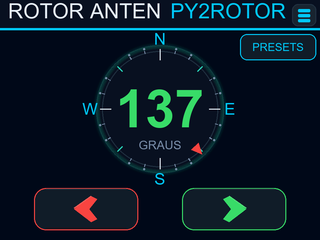
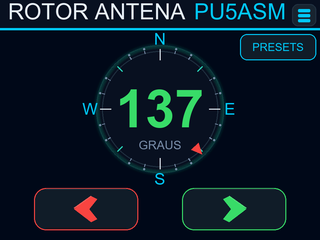
Refresh web presets and footer, standardize PU5ASM identity

Changed region(s): [[0.0312, 0.0, 0.9062, 0.0875]]

diff --git a/flasher/index.html b/flasher/index.html
@@ -119,6 +119,7 @@
 
   <footer>
     <a href="https://github.com/ArturAugustoMs/rotor-cyd">C&oacute;digo-fonte e documenta&ccedil;&atilde;o</a>
+    &nbsp;·&nbsp; PU5ASM &middot; Artur MS
     &nbsp;·&nbsp; Atualizado automaticamente a cada vers&atilde;o
   </footer>
 </main>

diff --git a/include/web_pages.h b/include/web_pages.h
@@ -6,6 +6,7 @@ namespace web::pages {
 static const char kCss[] = R"CSS(
 :root{--bg:#08111f;--card:#0f1b2e;--card2:#13223a;--line:#22365a;--tx:#e9eef7;--dim:#8d9dba;--ac:#3ddc84;--pri:#2f9bff;--dg:#ff5a5a;--r:12px}
 *{box-sizing:border-box}
+[hidden]{display:none!important}
 html{background:var(--bg)}
 body{background:linear-gradient(180deg,#0c1a31 0,var(--bg) 320px) no-repeat,var(--bg);color:var(--tx);font:16px/1.4 system-ui,-apple-system,"Segoe UI",Roboto,sans-serif;margin:0;-webkit-text-size-adjust:100%}
 .wrap{max-width:560px;margin:0 auto;padding:12px 16px 90px}
@@ -40,14 +41,29 @@ canvas{width:100%;max-width:520px;aspect-ratio:1;display:block;margin:0 auto;bor
 .arrows button{width:140px;max-width:45%;font-size:1.7rem;line-height:3.4rem;touch-action:none;user-select:none;-webkit-user-select:none}
 .arrows button.on{background:var(--ac);color:#06121f}
 .arrows button.cw.on{background:#ffb020}
-.presets h3{margin:14px 0 8px;padding-top:12px;border-top:1px solid var(--line)}
-.plist{display:flex;flex-direction:column;gap:6px;margin:0 0 10px}
-.prow{display:flex;align-items:center;gap:6px;background:var(--card2);border:1px solid var(--line);border-radius:10px;padding:4px}
-.prow.sel{border-color:var(--ac)}
-.prow button{flex:none;width:auto;line-height:2rem;font-size:.85rem;padding:0 10px;margin:0}
-.prow button.go{flex:1;background:transparent;color:var(--tx);text-align:left;display:flex;justify-content:space-between;gap:8px;box-shadow:none}
-.prow button.go span{overflow:hidden;text-overflow:ellipsis;white-space:nowrap}
-.prow button.go b{color:var(--ac);white-space:nowrap}
+.presets h2{margin:0}
+.phead{display:flex;align-items:center;justify-content:space-between;gap:10px;margin-bottom:10px}
+.pcount{flex:none;padding:3px 10px;border-radius:20px;background:var(--card2);border:1px solid var(--line);color:var(--ac);font-size:.75rem;font-weight:700}
+.plist{display:flex;flex-direction:column;gap:8px;margin:0}
+.pempty{padding:14px 12px;text-align:center;color:var(--dim);font-size:.85rem;background:var(--card2);border:1px dashed var(--line);border-radius:10px}
+.prow{display:grid;grid-template-columns:minmax(0,1fr) 36px 36px;gap:6px;align-items:center;background:var(--card2);border:1px solid var(--line);border-radius:10px;padding:4px}
+.prow.sel{border-color:var(--ac);box-shadow:0 0 0 1px var(--ac)}
+.prow button{margin:0;width:auto;line-height:2.15rem;font-size:.9rem;padding:0}
+.prow .go{display:flex;align-items:center;justify-content:space-between;gap:8px;min-width:0;padding:0 10px;background:transparent;color:var(--tx);box-shadow:none;text-align:left}
+.prow .go:hover{background:rgba(61,220,132,.08)}
+.prow .go .nm{min-width:0;overflow:hidden;text-overflow:ellipsis;white-space:nowrap;font-weight:600}
+.prow .go .ang{flex:none;padding:2px 8px;border-radius:20px;background:rgba(61,220,132,.12);color:var(--ac);font-size:.78rem;font-weight:700}
+.prow .ico{width:36px;height:36px;display:flex;align-items:center;justify-content:center;border-radius:9px;line-height:1;padding:0}
+.prow .ico svg{display:block;pointer-events:none}
+.prow .ico.del{background:transparent;box-shadow:inset 0 0 0 1px var(--line);color:var(--dim)}
+.prow .ico.del:hover{color:var(--dg);box-shadow:inset 0 0 0 1px var(--dg)}
+.pform{display:grid;grid-template-columns:minmax(0,1fr) 110px;gap:8px;margin-top:12px}
+.pform label{margin:0;align-self:center}
+.pform input{margin:0;min-width:0}
+.pactions{display:flex;gap:8px;margin-top:10px}
+.pactions button{flex:1}
+.ptip{margin:10px 0 0}
+.ptip.on{color:var(--ac);font-weight:600}
 .nets{display:flex;flex-direction:column;gap:8px;margin:10px 0 0}
 button.net{box-sizing:border-box;display:flex;align-items:center;gap:12px;width:100%;min-height:48px;margin:0;padding:8px 12px;background:var(--card2);box-shadow:inset 0 0 0 1px var(--line);border-radius:10px;color:var(--tx);text-align:left;font:600 .9rem/1.3 system-ui,sans-serif}
 button.net:hover{box-shadow:inset 0 0 0 1px var(--pri)}
@@ -85,26 +101,41 @@ details.about[open] summary:before{content:"\2212"}
 .wrap>form{margin:0 0 10px}
 form[action='/wifi'] button,form[action='/info'] button,form[action='/update'] button,form[action='/restart'] button,form[action='/exit'] button,form[action='/erase'] button{background:transparent;box-shadow:inset 0 0 0 1px var(--line);color:var(--tx)}
 a[data-ssid]{display:block;color:var(--tx);padding:12px;background:var(--card);border:1px solid var(--line);border-radius:10px;margin:0 0 6px;text-decoration:none}
-.ft{margin:26px 0 4px;padding:18px 12px 10px;border-top:1px solid var(--line);text-align:center;color:var(--dim);font-size:.78rem;line-height:1.6}
-.ft .ft-b{display:flex;align-items:center;justify-content:center;gap:8px;color:var(--tx);font-weight:700;letter-spacing:.14em;font-size:.82rem}
-.ft .ft-b:before{content:"";width:11px;height:11px;flex:none;border-radius:50%;border:2px solid var(--ac);background:conic-gradient(from 30deg,rgba(61,220,132,.9),transparent 30%)}
-.ft .ft-v{color:var(--ac);letter-spacing:0;font-weight:700}
-.ft .ft-d{display:flex;justify-content:center;gap:6px;flex-wrap:wrap;margin-top:9px}
-.ft .ft-d span{background:var(--card);border:1px solid var(--line);border-radius:20px;padding:3px 10px}
-.ft .ft-d b{color:var(--tx);font-weight:600}
+.ft{margin:28px 0 0;padding:18px 0 6px;border-top:1px solid var(--line);color:var(--dim);font-size:.8rem;line-height:1.5}
+.ft-title{display:flex;align-items:center;gap:8px;color:var(--tx);font-weight:800;letter-spacing:.12em;font-size:.8rem}
+.ft-title:before{content:"";width:11px;height:11px;flex:none;border-radius:50%;border:2px solid var(--ac);background:conic-gradient(from 30deg,rgba(61,220,132,.9),transparent 30%)}
+.ft-v{color:var(--ac);letter-spacing:0;font-weight:700}
+.ft-grid{display:grid;grid-template-columns:repeat(auto-fit,minmax(130px,1fr));gap:8px;margin:12px 0 0}
+.ft-grid>div{min-width:0;background:var(--card);border:1px solid var(--line);border-radius:10px;padding:8px 10px}
+.ft-grid dt{color:var(--dim);font-size:.68rem;text-transform:uppercase;letter-spacing:.06em}
+.ft-grid dd{margin:2px 0 0;color:var(--tx);font-weight:600;overflow:hidden;text-overflow:ellipsis;white-space:nowrap}
+.ft-sign{margin-top:10px;text-align:center;color:var(--dim)}
 )CSS";
 
 static const char kHead[] = R"HTML(<link rel="stylesheet" href="/pr.css"><meta name="theme-color" content="#08111f"><script>
 document.addEventListener('DOMContentLoaded',function(){var w=document.querySelector('.wrap');if(!w||document.querySelector('.hd'))return;
 var p=location.pathname,t=p.indexOf('/settings')==0?1:p.indexOf('/rede')==0?2:0;
-var h=document.createElement('div');h.innerHTML="<header class='hd'><a class='brand' href='/'><span id='hname'>ROTOR ANTENA</span></a><span class='pill' id='hcall'>&hellip;</span></header><nav class='tabs'><a href='/'>Inicio</a><a href='/settings'>Configurar</a><a href='/rede'>Rede</a></nav>";
+var h=document.createElement('div');h.innerHTML="<header class='hd'><a class='brand' href='/'><span id='hname'>ROTOR ANTENA</span></a><span class='pill' id='hcall'>PU5ASM</span></header><nav class='tabs'><a href='/'>Inicio</a><a href='/settings'>Configurar</a><a href='/rede'>Rede</a></nav>";
 w.insertBefore(h,w.firstChild);h.querySelectorAll('nav a')[t].className='on';
 var d=new Date(),f=document.createElement('footer');f.className='ft';
-f.innerHTML="<div class='ft-b'>ROTOR CYD <span class='ft-v' id='ftVer'>&hellip;</span></div><div class='ft-d'><span>Indicativo <b id='ftCall'>&hellip;</b></span><span id='ftName'>&hellip;</span><span id='ftDate'></span><span id='ftYear'></span></div>";
+f.innerHTML="<div class='ft-title'>ROTOR CYD <span class='ft-v' id='ftVer'></span></div>"+
+ "<dl class='ft-grid'>"+
+ "<div><dt>Indicativo</dt><dd id='ftCall'>PU5ASM</dd></div>"+
+ "<div><dt>Propriet&aacute;rio</dt><dd id='ftName'>Artur MS</dd></div>"+
+ "<div><dt>Atualizado em</dt><dd id='ftDate'></dd></div>"+
+ "</dl>"+
+ "<div class='ft-sign'>&copy; <span id='ftYear'></span> PU5ASM &middot; Artur MS</div>";
 w.appendChild(f);
-document.getElementById('ftDate').textContent=d.toLocaleDateString('pt-BR');
-document.getElementById('ftYear').textContent=d.getFullYear();
-fetch('/api/state').then(function(r){return r.json()}).then(function(j){document.getElementById('hname').textContent=j.antenna;document.getElementById('hcall').textContent=j.callsign;if(j.version)document.getElementById('ftVer').textContent='v'+j.version;if(j.owner_callsign)document.getElementById('ftCall').textContent=j.owner_callsign;if(j.owner_name)document.getElementById('ftName').textContent=j.owner_name}).catch(function(){})});
+function ftSet(id,value){var e=document.getElementById(id);if(e&&value)e.textContent=value}
+ftSet('ftDate',d.toLocaleDateString('pt-BR'));
+ftSet('ftYear',d.getFullYear());
+fetch('/api/state').then(function(r){return r.json()}).then(function(j){
+ ftSet('hname',j.antenna);
+ ftSet('hcall',j.callsign);
+ ftSet('ftCall',j.owner_callsign||j.callsign);
+ ftSet('ftName',j.owner_name);
+ ftSet('ftVer',j.version?('v'+j.version):'');
+}).catch(function(){})});
 </script>)HTML";
 
 static const char kMenu[] = R"HTML(<div class="tiles">
@@ -129,11 +160,11 @@ static const char kSettings[] = R"HTML(
 <label for="antenna">Nome da antena</label>
 <input id="antenna" maxlength="24" placeholder="Ex.: ANTENA PRINCIPAL" autocomplete="off">
 <label for="callsign">Indicativo</label>
-<input id="callsign" maxlength="12" placeholder="Ex.: PY2ABC" autocomplete="off" style="text-transform:uppercase">
+<input id="callsign" maxlength="12" placeholder="Ex.: PU5ASM" autocomplete="off" style="text-transform:uppercase">
 <label for="ownerCall">Indicativo (Sobre)</label>
-<input id="ownerCall" maxlength="12" placeholder="Ex.: PY0XXX" autocomplete="off" style="text-transform:uppercase">
+<input id="ownerCall" maxlength="12" placeholder="Ex.: PU5ASM" autocomplete="off" style="text-transform:uppercase">
 <label for="ownerName">Nome (Sobre)</label>
-<input id="ownerName" maxlength="24" placeholder="Ex.: Seu Nome" autocomplete="off">
+<input id="ownerName" maxlength="24" placeholder="Ex.: Artur MS" autocomplete="off">
 <button id="save">Salvar</button>
 </div>
 <div class="card"><h2>Apar&ecirc;ncia do CYD</h2>
@@ -247,21 +278,30 @@ static const char kControl[] = R"HTML(
 <button id="cw" class="cw" aria-label="Girar no sentido hor&aacute;rio">&#9654;</button>
 </div>
 <p class="hint" style="margin:10px 0 0">Segure a seta para girar. O rel&eacute; desliga ao soltar (ou ap&oacute;s 1 s sem comando).</p>
-<div class="presets">
-<h3>Presets</h3>
-<div id="presetList" class="plist"></div>
-<p class="hint" id="targetStatus" style="margin:0 0 10px">Rota&ccedil;&atilde;o livre</p>
-<div class="row">
-<input id="presetName" maxlength="20" placeholder="Nome (ex.: Europa)">
-<input id="presetAngle" type="number" min="0" max="360" step="1" inputmode="numeric" placeholder="&Acirc;ngulo 0-360">
 </div>
-<div class="row">
-<button id="presetSave" class="sm">Adicionar</button>
-<button id="presetCancel" class="G sm" style="display:none">Cancelar</button>
+<section class="card presets" aria-labelledby="presetsTitle">
+<div class="phead">
+<h2 id="presetsTitle">Presets</h2>
+<span class="pcount" id="presetCount">0/10</span>
 </div>
-<p class="hint" style="margin:10px 0 0">O preset gira at&eacute; o &acirc;ngulo e para. Nunca cruza os fins de curso (0&deg;/360&deg;). Qualquer seta cancela o alvo.</p>
+<div id="presetList" class="plist" aria-live="polite"></div>
+<p class="hint ptip" id="targetStatus">Rota&ccedil;&atilde;o livre</p>
+<form class="pform" autocomplete="off">
+<div>
+<label for="presetName">Nome</label>
+<input id="presetName" maxlength="20" placeholder="Ex.: Europa">
 </div>
+<div>
+<label for="presetAngle">&Acirc;ngulo</label>
+<input id="presetAngle" type="number" min="0" max="360" step="1" inputmode="numeric" placeholder="0-360">
 </div>
+</form>
+<div class="pactions">
+<button id="presetSave" type="button">Adicionar</button>
+<button id="presetCancel" class="G" type="button" hidden>Cancelar</button>
+</div>
+<p class="hint ptip">Toque no nome para girar at&eacute; o &acirc;ngulo e parar. Limites f&iacute;sicos: 0&deg; e 360&deg;. Qualquer seta cancela o alvo.</p>
+</section>
 <script>
 (function(){
 var cv=$('compass'),c=cv.getContext('2d'),az=0,name='',call='';
@@ -280,7 +320,7 @@ c.font='600 24px system-ui,sans-serif';c.fillStyle='#8d9dba';c.fillText('GRAUS',
 c.font='600 26px system-ui,sans-serif';c.fillStyle='#e9eef7';c.fillText(name,260,350);
 c.font='600 22px system-ui,sans-serif';c.fillStyle='#3ddc84';c.fillText(call,260,385);
 }
-function poll(){api('GET','/api/state').then(function(j){az=j.azimuth;name=j.antenna;call=j.callsign;var ts=$('targetStatus');if(ts)ts.textContent=j.target_active?('Indo para '+j.target+'\u00b0'):'Rota\u00e7\u00e3o livre';draw()}).catch(function(){})}
+function poll(){api('GET','/api/state').then(function(j){az=j.azimuth;name=j.antenna;call=j.callsign;setTargetStatus(j);draw()}).catch(function(){})}
 setInterval(poll,200);poll();
 function cmd(d){return api('POST','/api/rotate',{dir:d}).catch(function(){})}
 function bind(id,d){
@@ -298,34 +338,63 @@ function stopAll(){['ccw','cw'].forEach(function(id){var b=$(id);if(b&&b._stop)b
 window.addEventListener('blur',stopAll);
 document.addEventListener('visibilitychange',function(){if(document.hidden)stopAll()});
 
-var presets=[],editIndex=-1;
+var presets=[],editIndex=-1,maxPresets=10;
+function byId(id){return document.getElementById(id)}
+function setHidden(id,value){byId(id).hidden=!!value}
+function setTargetStatus(j){
+ var ts=byId('targetStatus');
+ if(!ts)return;
+ var active=!!(j&&j.target_active);
+ ts.textContent=active?('Indo para '+j.target+'\u00b0'):'Rota\u00e7\u00e3o livre';
+ ts.classList.toggle('on',active);
+}
+var ICON_EDIT='<svg width="16" height="16" viewBox="0 0 24 24" fill="none" stroke="currentColor" stroke-width="2" stroke-linecap="round" stroke-linejoin="round"><path d="M12 20h9"/><path d="M16.5 3.5a2.1 2.1 0 0 1 3 3L7 19l-4 1 1-4z"/></svg>';
+var ICON_DEL='<svg width="16" height="16" viewBox="0 0 24 24" fill="none" stroke="currentColor" stroke-width="2" stroke-linecap="round" stroke-linejoin="round"><path d="M3 6h18"/><path d="M8 6V4h8v2"/><path d="M6 6l1 14h10l1-14"/></svg>';
+function listMessage(text){
+ var box=byId('presetList');box.innerHTML='';
+ var d=document.createElement('div');d.className='pempty';d.textContent=text;box.appendChild(d);
+}
 function renderPresets(){
- var box=$('presetList');box.innerHTML='';
- if(!presets.length){var empty=document.createElement('p');empty.className='hint';empty.textContent='Nenhum preset cadastrado.';box.appendChild(empty);return}
+ var box=byId('presetList');box.innerHTML='';
+ byId('presetCount').textContent=presets.length+'/'+maxPresets;
+ byId('presetSave').disabled=presets.length>=maxPresets&&editIndex<0;
+ if(!presets.length){listMessage('Nenhum preset cadastrado. Use os campos abaixo para criar o primeiro.');return}
  presets.forEach(function(p,i){
   var row=document.createElement('div');row.className='prow'+(editIndex===i?' sel':'');
-  var go=document.createElement('button');go.className='go';
-  var nm=document.createElement('span');nm.textContent=p.name;
-  var ag=document.createElement('b');ag.textContent=p.angle+'\u00b0';
-  go.appendChild(nm);go.appendChild(ag);
+  var go=document.createElement('button');go.type='button';go.className='go';go.title='Girar para '+p.name;
+  var nm=document.createElement('span');nm.className='nm';nm.textContent=p.name;
+  var ang=document.createElement('span');ang.className='ang';ang.textContent=p.angle+'\u00b0';
+  go.appendChild(nm);go.appendChild(ang);
   go.onclick=function(){stopAll();api('POST','/api/preset',{index:i}).then(function(){toast('Indo para '+p.name+' '+p.angle+'\u00b0')}).catch(function(e){toast('Erro: '+e.message)})};
-  var ed=document.createElement('button');ed.className='G sm';ed.textContent='\u270e';
-  ed.onclick=function(){editIndex=i;$('presetName').value=p.name;$('presetAngle').value=p.angle;$('presetSave').textContent='Salvar altera\u00e7\u00e3o';$('presetCancel').style.display='';renderPresets()};
-  var del=document.createElement('button');del.className='D sm';del.textContent='\u00d7';
-  del.onclick=function(){api('POST','/api/presets',{op:'remove',index:i}).then(function(){if(editIndex===i)resetPresetForm();loadPresets();toast('Preset removido')}).catch(function(e){toast('Erro: '+e.message)})};
+  var ed=document.createElement('button');ed.type='button';ed.className='G ico';ed.innerHTML=ICON_EDIT;ed.title='Editar '+p.name;ed.setAttribute('aria-label','Editar '+p.name);
+  ed.onclick=function(){editIndex=i;byId('presetName').value=p.name;byId('presetAngle').value=p.angle;byId('presetSave').textContent='Salvar altera\u00e7\u00e3o';setHidden('presetCancel',false);renderPresets();byId('presetName').focus()};
+  var del=document.createElement('button');del.type='button';del.className='ico del';del.innerHTML=ICON_DEL;del.title='Remover '+p.name;del.setAttribute('aria-label','Remover '+p.name);
+  del.onclick=function(){api('POST','/api/presets',{op:'remove',index:i}).then(function(){resetPresetForm();loadPresets();toast('Preset removido')}).catch(function(e){toast('Erro: '+e.message)})};
   row.appendChild(go);row.appendChild(ed);row.appendChild(del);box.appendChild(row);
  });
 }
-function resetPresetForm(){editIndex=-1;$('presetName').value='';$('presetAngle').value='';$('presetSave').textContent='Adicionar';$('presetCancel').style.display='none';renderPresets()}
-function loadPresets(){api('GET','/api/presets').then(function(j){presets=j.presets||[];renderPresets()}).catch(function(){})}
-$('presetSave').onclick=function(){
- var name=$('presetName').value.trim(),angle=parseInt($('presetAngle').value,10);
+function resetPresetForm(){
+ editIndex=-1;
+ byId('presetName').value='';byId('presetAngle').value='';
+ byId('presetSave').textContent='Adicionar';setHidden('presetCancel',true);
+ renderPresets();
+}
+function loadPresets(){
+ return api('GET','/api/presets').then(function(j){
+  presets=j.presets||[];maxPresets=j.max||10;
+  if(editIndex>=presets.length)resetPresetForm();else renderPresets();
+ }).catch(function(e){listMessage('Erro ao carregar presets: '+e.message)});
+}
+byId('presetSave').onclick=function(){
+ if(this.disabled)return;
+ var name=byId('presetName').value.trim(),raw=byId('presetAngle').value.trim(),angle=Number(raw);
  if(!name){toast('Informe o nome do preset');return}
- if(isNaN(angle)||angle<0||angle>360){toast('O \u00e2ngulo deve estar entre 0 e 360');return}
+ if(raw===''||!isFinite(angle)||angle!==Math.floor(angle)||angle<0||angle>360){toast('O \u00e2ngulo deve ser inteiro entre 0 e 360');return}
  var body=editIndex>=0?{op:'edit',index:editIndex,name:name,angle:angle}:{op:'add',name:name,angle:angle};
- api('POST','/api/presets',body).then(function(){resetPresetForm();loadPresets();toast('Preset salvo')}).catch(function(e){toast('Erro: '+e.message)});
+ var wasEdit=editIndex>=0;
+ api('POST','/api/presets',body).then(function(){resetPresetForm();return loadPresets()}).then(function(){toast(wasEdit?'Preset atualizado':'Preset adicionado')}).catch(function(e){toast('Erro: '+e.message)});
 };
-$('presetCancel').onclick=resetPresetForm;
+byId('presetCancel').onclick=resetPresetForm;
 loadPresets();
 })();
 </script>

diff --git a/scripts/render_preview.py b/scripts/render_preview.py
@@ -87,8 +87,8 @@ def vlw_advances(size: int) -> dict[str, int]:
 _L_ADVANCES = vlw_advances("l")
 # O Arial é mais largo que o VLW; escala o texto desenhado para bater com a
 # largura real medida pelo firmware (tft.textWidth com uiFont(3) == font_l).
-_HEADER_SCALE = sum(_L_ADVANCES[c] for c in "PY2ROTOR") / (
-    font(22).getlength("PY2ROTOR") / S)
+_HEADER_SCALE = sum(_L_ADVANCES[c] for c in "PU5ASM") / (
+    font(22).getlength("PU5ASM") / S)
 
 
 def text_width(text: str, px: int, bold: bool = False) -> float:
@@ -143,7 +143,7 @@ def draw_header(c: Canvas) -> None:
     c.rect(0, 28, 320, 2, CYAN)
 
     # Mesma truncagem do drawHeader(): o nome encolhe até não tocar o indicativo.
-    call = "PY2ROTOR"
+    call = "PU5ASM"
     call_right = CFG_X - 6
     name_limit = call_right - text_width(call, 22) - 12
     if name_limit < 24:

diff --git a/include/config.h b/include/config.h
@@ -4,15 +4,15 @@
 
 namespace config {
 
-constexpr char kFirmwareVersion[] = "1.2-presets";
+constexpr char kFirmwareVersion[] = "1.2.1-web-ui";
 constexpr char kPortalApName[] = "Rotor-Setup";
 constexpr char kPortalIp[] = "192.168.4.1";
 constexpr char kPortalHostname[] = "rotor-cyd";
 
 // Valores padrão dos quadros "Sobre" enquanto nada foi salvo pelo site.
 // Podem ser alterados em Configurar -> "Indicativo (Sobre)" / "Nome (Sobre)".
-constexpr char kOwnerCallsign[] = "PY0XXX";
-constexpr char kOwnerName[] = "Seu Nome";
+constexpr char kOwnerCallsign[] = "PU5ASM";
+constexpr char kOwnerName[] = "Artur MS";
 
 // Display (HSPI)
 constexpr int kPinTftSclk = 14;

diff --git a/src/services/settings.cpp b/src/services/settings.cpp
@@ -116,7 +116,7 @@ bool removePreset(uint8_t index) {
 void init() {
   s_prefs.begin("rotor", false);
   s_current.antenna = clean(s_prefs.getString("antenna", ""), 24, "ROTOR ANTENA");
-  s_current.callsign = clean(s_prefs.getString("callsign", ""), 12, "PY2ROTOR");
+  s_current.callsign = clean(s_prefs.getString("callsign", ""), 12, "PU5ASM");
   s_current.ownerCallsign =
       clean(s_prefs.getString("owner_callsign", ""), 12, config::kOwnerCallsign);
   s_current.ownerName =

diff --git a/README.md b/README.md
@@ -296,16 +296,17 @@ flasher/index.html         página do instalador (ESP Web Tools)
 Edite `include/config.h` antes de compilar:
 
 ```cpp
-constexpr char kFirmwareVersion[] = "1.1-rotor-web";
+constexpr char kFirmwareVersion[] = "1.2.1-web-ui";
 constexpr char kPortalApName[]    = "Rotor-Setup";
 constexpr char kPortalHostname[]  = "rotor-cyd";
-constexpr char kOwnerCallsign[]   = "PY0XXX";   // padrão de "Sobre"
-constexpr char kOwnerName[]       = "Seu Nome"; // padrão de "Sobre"
+constexpr char kOwnerCallsign[]   = "PU5ASM";   // padrão de "Sobre"
+constexpr char kOwnerName[]       = "Artur MS"; // padrão de "Sobre"
 ```
 
 Indicativo, nome da antena e os dados do quadro **Sobre** são salvos no NVS e
 podem ser alterados pela aba `Configurar` do site, sem recompilar. Os valores em
-`config.h` só são usados na primeira inicialização.
+`config.h` só são usados na primeira inicialização; os padrões são `PU5ASM` e
+`Artur MS`, exibidos no cabeçalho, no rodapé e no quadro **Sobre** do portal.
 
 Se mudar `kPortalApName`, rode `python scripts/gen_ap_qr.py` e recompile para
 atualizar o QR exibido na tela.
